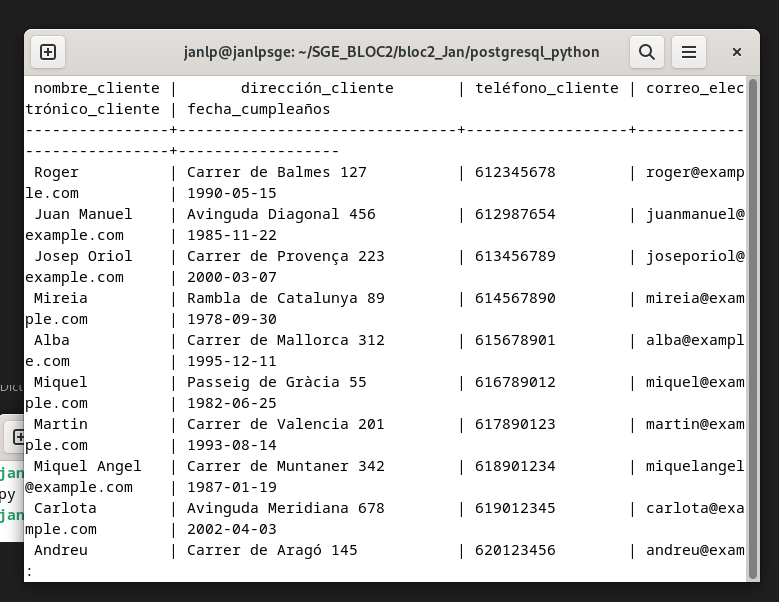
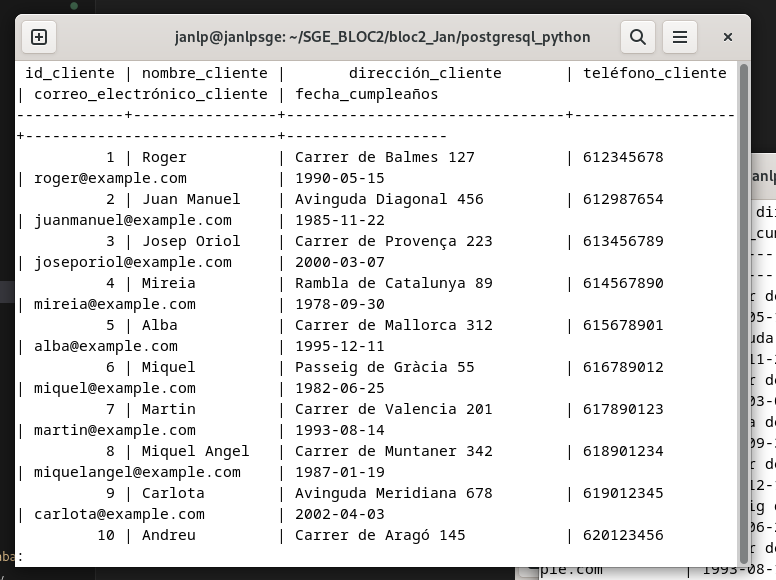
Treball a clase, tasca completada!

Changed region(s): [[0.0, 0.0, 1.0, 1.0], [0.7113, 0.1862, 0.8969, 0.2172], [0.5567, 0.1862, 0.6186, 0.2172]]

diff --git a/bloc2_Jan/postgresql_python/CreateTableToDatabase.py b/bloc2_Jan/postgresql_python/CreateTableToDatabase.py
@@ -7,11 +7,13 @@ def CreateTables():
 
     SQLClients = '''
        CREATE TABLE Clientes (
+       Id_Cliente SERIAL PRIMARY KEY,
        Nombre_Cliente VARCHAR(100),
        Dirección_Cliente VARCHAR(200),
        Teléfono_Cliente VARCHAR(100),
        Correo_Electrónico_Cliente VARCHAR(100),
-       Fecha_Cumpleaños VARCHAR(50));'''
+       Fecha_Cumpleaños VARCHAR(50));
+       '''
 
     Cursor.execute(SQLClients)
 

diff --git a/bloc2_Jan/postgresql_python/UpdateRegister.py b/bloc2_Jan/postgresql_python/UpdateRegister.py
@@ -1,0 +1,21 @@
+import Connect
+
+def UpdateRegister():
+    Connection = Connect.ConnectToDatabase()
+    Cursor = Connection.cursor()
+
+    SQLUpdate = '''
+    UPDATE Clientes
+    SET Teléfono_Cliente = 000000003
+    WHERE Id_Cliente = 3;
+    '''
+
+    Cursor.execute(SQLUpdate)
+    Connection.commit()
+
+    Cursor.close()
+    Connection.close()
+
+    print("Update successful")
+
+UpdateRegister()

diff --git a/bloc2_Jan/postgresql_python/DeleteRegister.py b/bloc2_Jan/postgresql_python/DeleteRegister.py
@@ -1,0 +1,20 @@
+import Connect
+
+def DeleteRegister():
+    Connection = Connect.ConnectToDatabase()
+    Cursor = Connection.cursor()
+
+    SQLDelete = '''
+    DELETE FROM Clientes
+    WHERE Id_Cliente = 3;
+    '''
+
+    Cursor.execute(SQLDelete)
+    Connection.commit()
+
+    Cursor.close()
+    Connection.close()
+
+    print("Delete successful")
+
+DeleteRegister()

diff --git a/bloc2_Jan/postgresql_python/ReadRegister.py b/bloc2_Jan/postgresql_python/ReadRegister.py
@@ -1,0 +1,14 @@
+import Connect
+
+def ReadRegister():
+    Connection = Connect.ConnectToDatabase()
+    Cursor = Connection.cursor()
+
+    SQLRead = "SELECT * FROM Clientes"
+
+    Cursor.execute(SQLRead)
+    Connection.commit()
+
+    Results = Cursor.fetchall()
+
+    return Results

diff --git a/bloc2_Jan/postgresql_python/Main.py b/bloc2_Jan/postgresql_python/Main.py
@@ -1,0 +1,9 @@
+import ReadRegister
+
+for Data in ReadRegister.ReadRegister():
+    print("\n")
+    print("Nom: " + Data[1])
+    print("Adreça: " + Data[2])
+    print("Telèfon: " + Data[3])
+    print("Email: " + Data[4])
+    print("Naixement: " + Data[5])

diff --git a/bloc2_Jan/readme.md b/bloc2_Jan/readme.md
@@ -43,3 +43,33 @@ I les he populat
 
 ![12](Captures/12.png)
 ![13](Captures/13.png)
+
+Creo el CreateRegister i modifico Main per probar que funcioni CreateRegister, l'executo i comprovo que s'hagi creat el registre. (podem veure que apareix com l'ultim de la taula)
+
+![14](Captures/14.png)
+![15](Captures/15.png)
+![16](Captures/16.png)
+![17](Captures/17.png)
+
+Fico el codi a ReadRegister per llegir tota la taula de Clientes, i he modificat register per que pugui mostrar de forma llegible els resultats.
+
+![18](Captures/18.png)
+![19](Captures/19.png)
+![20](Captures/20.png)
+
+Creo el UpdateRegister per actualitzar la base de dades a través de l'script i utilitzo el Main creat abans per llegir els canvis (hem vist que les captures anteriors han mostrat la informació previa a ser editada, podem veure les diferencies)
+(* a partir d'aqui, m'he adonat que la a la taula li falta la id_cliente, he fet les modificacions necesaries, he canviat els scripts i he renovat algunes captures de pantalla per mantenir coherencia)
+
+![21](Captures/21.png)
+![22](Captures/22.png)
+![23](Captures/23.png)
+![24](Captures/24.png)
+![25](Captures/25.png)
+
+Creo el DeleteRegister per borrar clients de la base de dades i utilitzo el Main creat previament per veure que ja no existeixen els 3 Clients que he canviat amb UpdateRegister
+
+![26](Captures/26.png)
+![27](Captures/27.png)
+![28](Captures/28.png)
+![29](Captures/29.png)
+![30](Captures/30.png)
